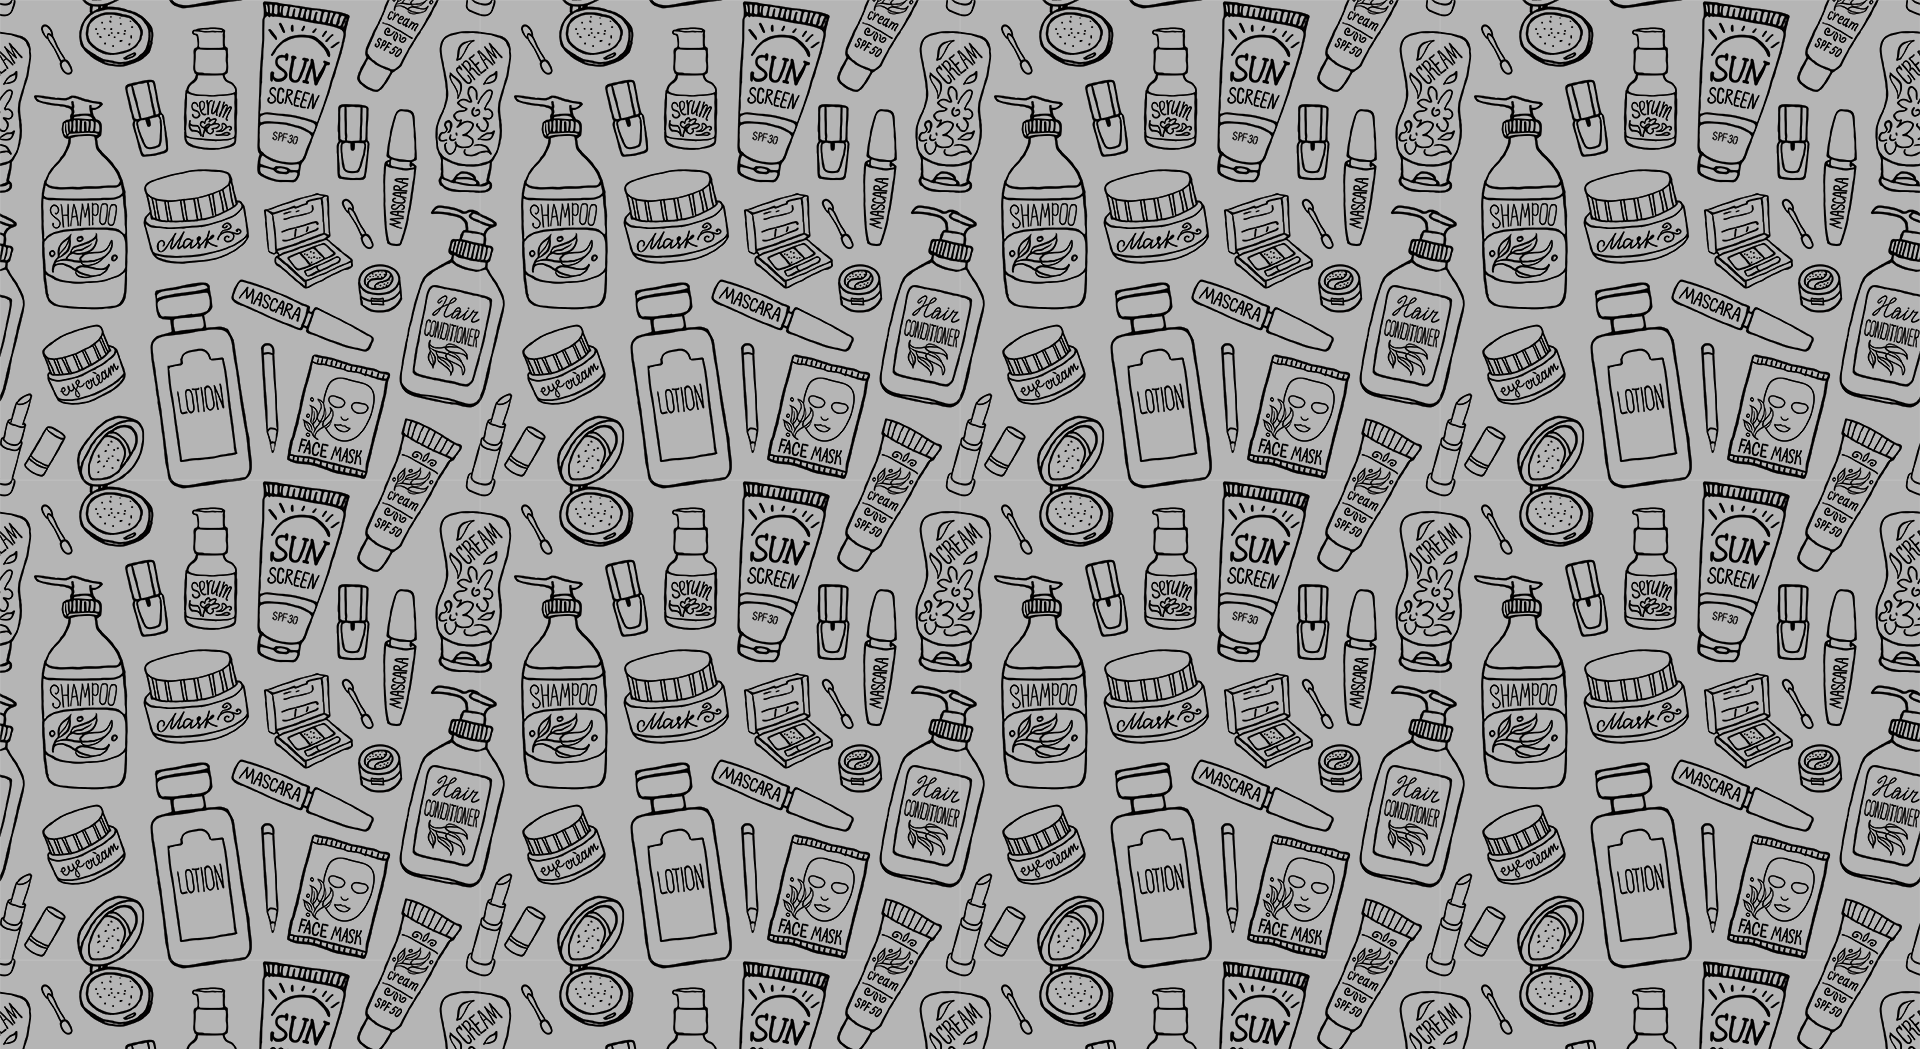
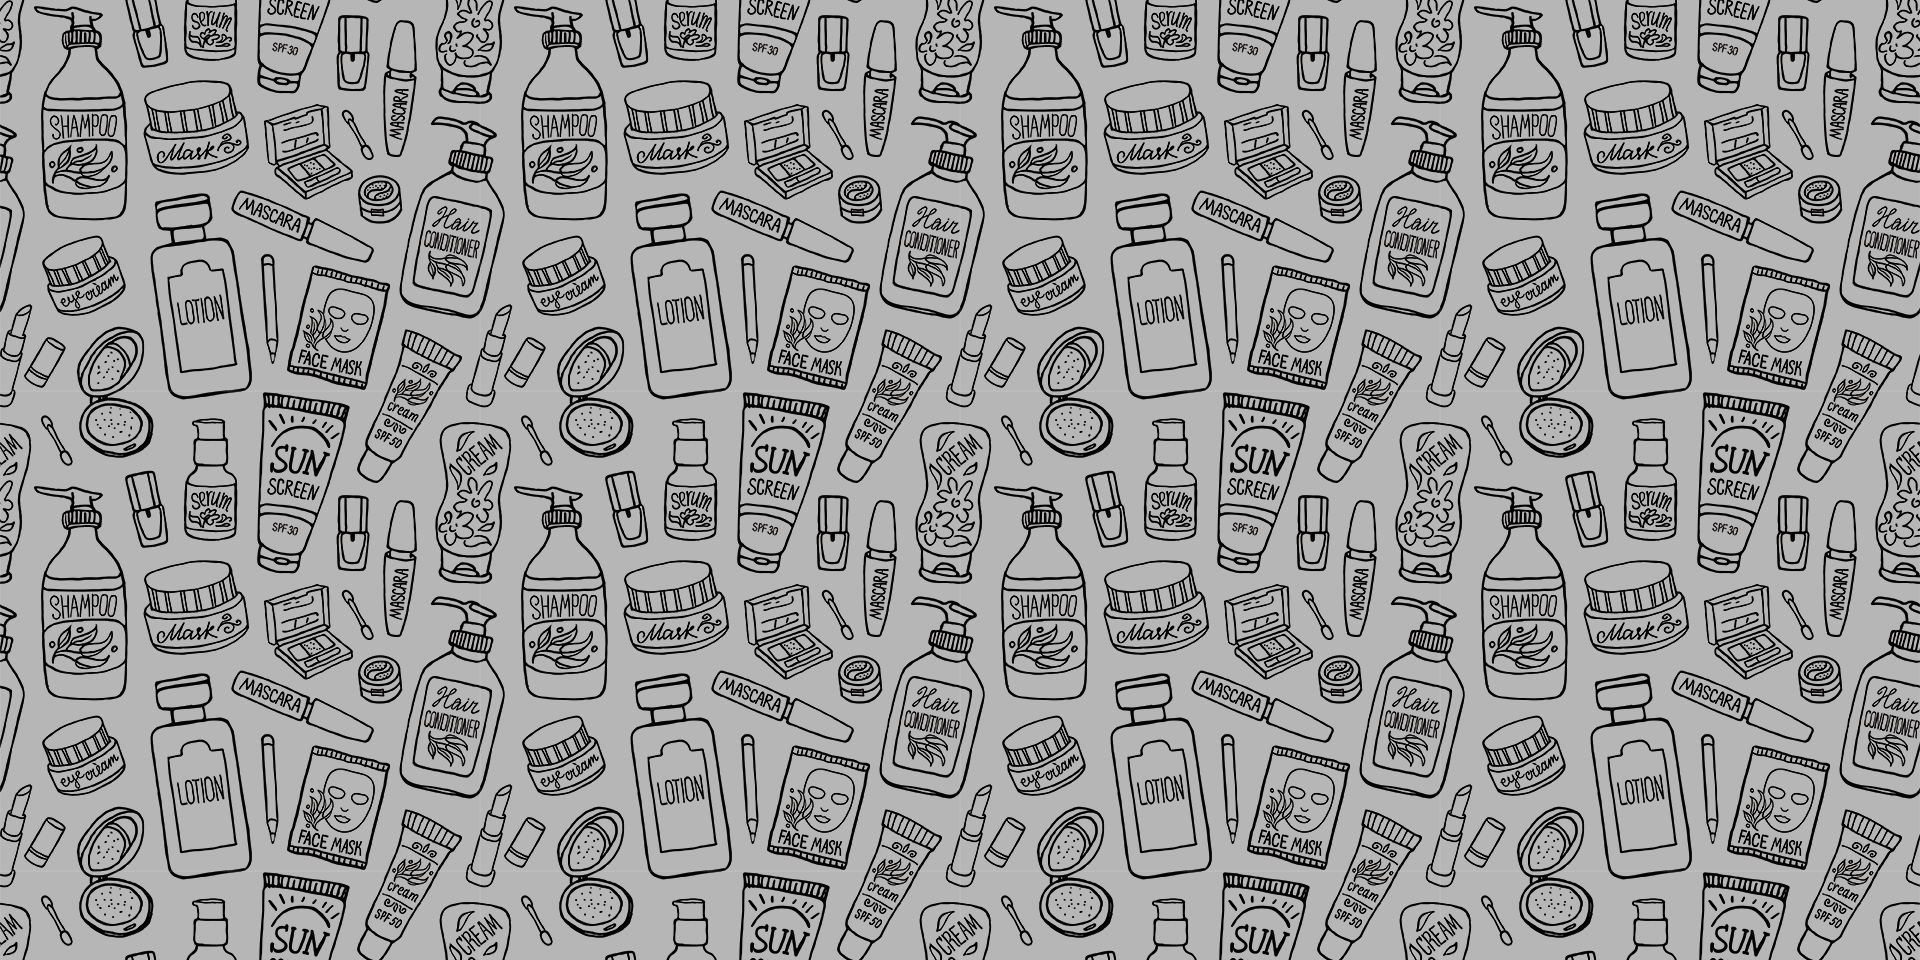
fix background issue mobile

diff --git a/style.css b/style.css
@@ -1072,7 +1072,8 @@ padding: 35px 13px;
 /*============ 9.Reservation Css start=================*/
 
 .grbn-delicous-fd {
-    background: rgba(0, 0, 0, 0) url("assets/images/section-img/pattern_1.png") no-repeat fixed center center / cover;
+    background: rgba(0, 0, 0, 0) url("assets/images/section-img/pattern_1.png") repeat center center;
+
 }
 .all-del-food {
     padding: 72px 70px 55px 100px;

diff --git a/assets/js/main.js b/assets/js/main.js
@@ -19,6 +19,7 @@ Version      : 1.0
 ==========================================
 */
 $('.slider-bg').parallax("50%", -0.1);
+$('.grbn-delicous-fd').parallax("50%", 0.1);
 
 $('.main-slider-1 a.slide-control-mr').on('click', function(){
   $('.slider-con h1,.slider-con p').addClass('animated  slideInDown');
